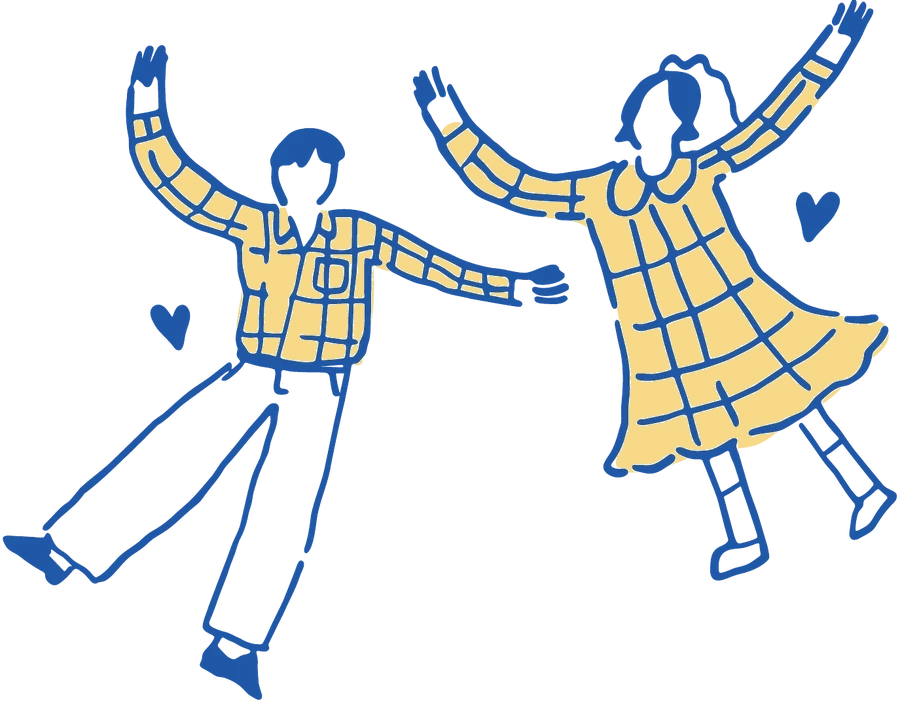
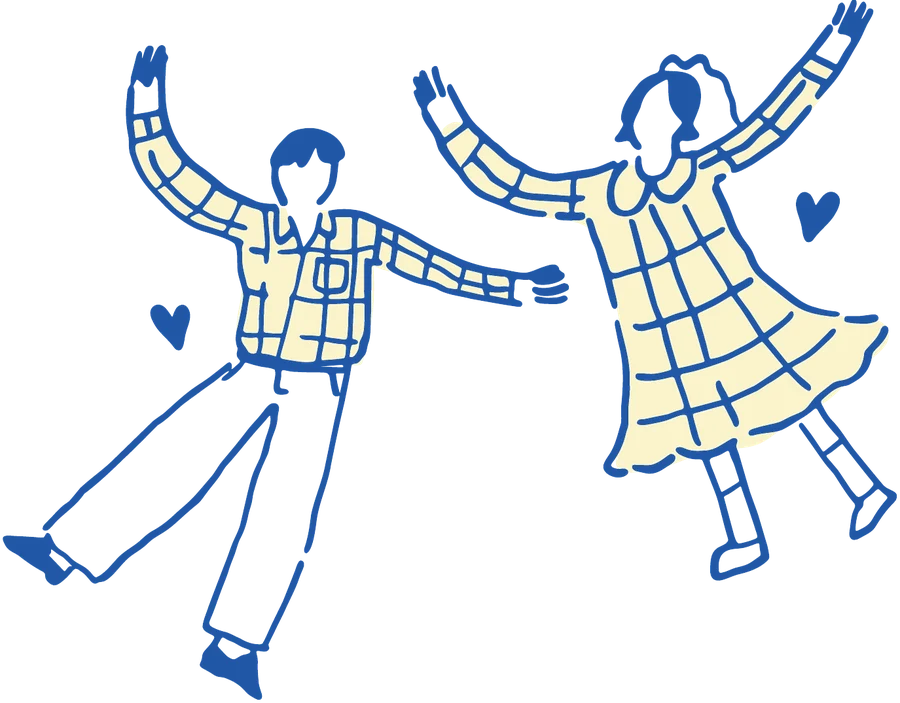
Refactor dance image references and update styles for improved category selection

Changed region(s): [[0.4978, 0.0896, 0.9956, 0.6871], [0.1556, 0.1494, 0.56, 0.5377]]

diff --git a/script.js b/script.js
@@ -916,7 +916,7 @@
     (function (G) {
       var map = null,
         layers = {},
-        markers = {};
+        selectedCategories = {};
       if (window.L) {
         map = L.map("guideMap", { scrollWheelZoom: false, tap: true }).setView(
           [VENUE.lat, VENUE.lng],
@@ -962,11 +962,9 @@
       Object.keys(G).forEach(function (cat, i) {
         var b = document.createElement("button");
         b.type = "button";
-        b.setAttribute("role", "tab");
         b.id = "tab" + i;
         b.setAttribute("aria-controls", "pan" + i);
-        b.setAttribute("aria-selected", i === 0 ? "true" : "false");
-        b.tabIndex = i === 0 ? 0 : -1;
+        b.setAttribute("aria-pressed", "false");
         var sw = document.createElement("span");
         sw.className = "sw";
         sw.style.background = COLORS[cat] || "#999";
@@ -975,12 +973,11 @@
         var ul = document.createElement("ul");
         ul.className = "places";
         ul.id = "pan" + i;
-        ul.setAttribute("role", "tabpanel");
-        ul.setAttribute("aria-labelledby", "tab" + i);
-        if (i) ul.hidden = true;
+        ul.hidden = true;
         if (map) layers[i] = L.layerGroup();
         G[cat].forEach(function (p, j) {
           var li = document.createElement("li");
+          li.style.setProperty("--place-color", COLORS[cat] || "#999");
           var h = document.createElement("h3");
           if (map && p.lat) {
             var mk = L.marker([p.lat, p.lng], {
@@ -1004,13 +1001,13 @@
                 '" target="_blank" rel="noopener">เปิดใน Google Maps</a>',
             );
             layers[i].addLayer(mk);
-            markers[i + "-" + j] = mk;
             var nb = document.createElement("button");
             nb.type = "button";
             nb.textContent = p.n;
             nb.setAttribute("aria-label", "ดู " + p.n + " บนแผนที่");
             nb.addEventListener("click", function () {
-              showLayer(i);
+              selectedCategories[i] = true;
+              syncSelection();
               document
                 .getElementById("guideMap")
                 .scrollIntoView({ behavior: "smooth", block: "center" });
@@ -1050,45 +1047,52 @@
           }).observe(document.getElementById("guideMap"));
         }
       }
-      function showLayer(i) {
+      function showLayer() {
         if (!map) return;
         Object.keys(layers).forEach(function (k) {
           map.removeLayer(layers[k]);
         });
-        layers[i].addTo(map);
         var pts = [[VENUE.lat, VENUE.lng]];
-        layers[i].eachLayer(function (l) {
-          pts.push(l.getLatLng());
+        Object.keys(selectedCategories).forEach(function (i) {
+          layers[i].addTo(map);
+          layers[i].eachLayer(function (l) {
+            pts.push(l.getLatLng());
+          });
         });
+        if (!Object.keys(selectedCategories).length) {
+          map.setView([VENUE.lat, VENUE.lng], 13);
+          return;
+        }
         map.fitBounds(pts, { padding: [30, 30], maxZoom: 15 });
       }
-      function sel(i) {
+      function syncSelection() {
+        panels.classList.toggle(
+          "has-multiple",
+          Object.keys(selectedCategories).length > 1,
+        );
         tabs.querySelectorAll("button").forEach(function (b, j) {
-          b.setAttribute("aria-selected", j === i ? "true" : "false");
-          b.tabIndex = j === i ? 0 : -1;
+          b.setAttribute(
+            "aria-pressed",
+            selectedCategories[j] ? "true" : "false",
+          );
         });
         panels.querySelectorAll("ul").forEach(function (u, j) {
-          u.hidden = j !== i;
+          u.hidden = !selectedCategories[j];
         });
-        showLayer(i);
+        showLayer();
       }
       tabs.addEventListener("click", function (e) {
         var b = e.target.closest("button");
         if (!b) return;
-        sel([].indexOf.call(tabs.children, b));
-      });
-      tabs.addEventListener("keydown", function (e) {
-        var bs = [].slice.call(tabs.children),
-          i = bs.indexOf(document.activeElement);
-        if (i < 0) return;
-        if (e.key === "ArrowRight" || e.key === "ArrowLeft") {
-          e.preventDefault();
-          var n =
-            (i + (e.key === "ArrowRight" ? 1 : -1) + bs.length) % bs.length;
-          sel(n);
-          bs[n].focus();
+        var i = [].indexOf.call(tabs.children, b);
+        if (selectedCategories[i]) {
+          delete selectedCategories[i];
+        } else {
+          selectedCategories[i] = true;
         }
+        syncSelection();
       });
+      syncSelection();
     })(G);
   } catch (error) {
     console.error("Unable to initialize the Surin guide:", error);

diff --git a/styles.css b/styles.css
@@ -14,7 +14,7 @@
   --page: #b5daff;
   --d-blue: #9cbfe5;
   --d-green: #b2d795;
-  --d-yellow: #f7d887;
+  --d-yellow: #fbf4cb;
   --d-orange: #f8a56d;
   --d-pink: #f59da3;
   --thai:
@@ -634,13 +634,24 @@ p {
 }
 
 @media (min-width: 900px) {
-  .places:not([hidden]) {
+  #panels:not(.has-multiple) .places:not([hidden]) {
     display: grid;
     grid-template-columns: 1fr 1fr;
     column-gap: 36px;
   }
 
-  .places li:nth-child(2) {
+  #panels.has-multiple {
+    display: grid;
+    grid-template-columns: 1fr 1fr;
+    column-gap: 36px;
+  }
+
+  #panels.has-multiple .places:not([hidden]) {
+    display: contents;
+  }
+
+  #panels.has-multiple .places:not([hidden]) li:first-child,
+  #panels:not(.has-multiple) .places li:nth-child(2) {
     border-top: 0;
     padding-top: 4px;
   }
@@ -1140,7 +1151,7 @@ p {
   min-height: 44px;
 }
 
-.tabs button[aria-selected="true"] {
+.tabs button[aria-pressed="true"] {
   background: var(--ink);
   color: var(--paper);
 }
@@ -1167,6 +1178,7 @@ p {
 .places h3 {
   font-size: 18px;
   margin: 0;
+  color: var(--place-color);
 }
 
 .places .meta {
@@ -1190,7 +1202,8 @@ p {
   color: var(--ink);
   padding: 6px 12px;
   border-radius: 999px;
-  box-shadow: inset 0 0 0 1.5px var(--ink);
+  background: var(--place-color);
+  box-shadow: inset 0 0 0 1.5px var(--place-color);
   white-space: nowrap;
 }
 

diff --git a/index.html b/index.html
@@ -262,12 +262,13 @@
           <h3 class="surin-title">มาสุรินทร์ทั้งที แวะต่อกันได้</h3>
           <p>
             ร้านต่าง ๆ และที่เที่ยวที่เราอยากให้ลอง ส่วนใหญ่อยู่ในตัวเมือง
-            กดชื่อร้านเพื่อดูบนแผนที่
+            เลือกได้หลายหมวดพร้อมกัน กดหมวดเดิมอีกครั้งเพื่อยกเลิกการเลือก
+            และกดชื่อร้านเพื่อดูบนแผนที่
           </p>
           <!-- ✏ รายชื่อร้าน/ที่เที่ยว แก้ได้ใน script.js ตรง var G = { -->
           <div
             class="tabs"
-            role="tablist"
+            role="group"
             aria-label="หมวดสถานที่แนะนำ"
             id="tabs"
           ></div>

diff --git a/README.md b/README.md
@@ -17,8 +17,7 @@ images/
   gallery/                 รูปและวิดีโอในแกลเลอรี
   scene-bg.jpg, -m.jpg     วิวท้ายเว็บ (จอคอม / มือถือ)
   flowers-cream.webp       ช่อดอกไม้สีครีมในส่วน Thank you
-  dance.webp               ภาพเต้นรำชุดลายสก็อตเริ่มต้นในส่วนการแต่งกาย
-  dance-blue/green/yellow/orange/pink.webp
+  dance*.webp               ภาพเต้นรำเฉพาะเส้นขอบสำหรับส่วนการแต่งกาย
                             ภาพเต้นรำชุดลายสก็อตสีตามตัวอย่างในส่วนการแต่งกาย
   *.webp                   ตัวเขียนและภาพวาดจากการ์ด
 ```
